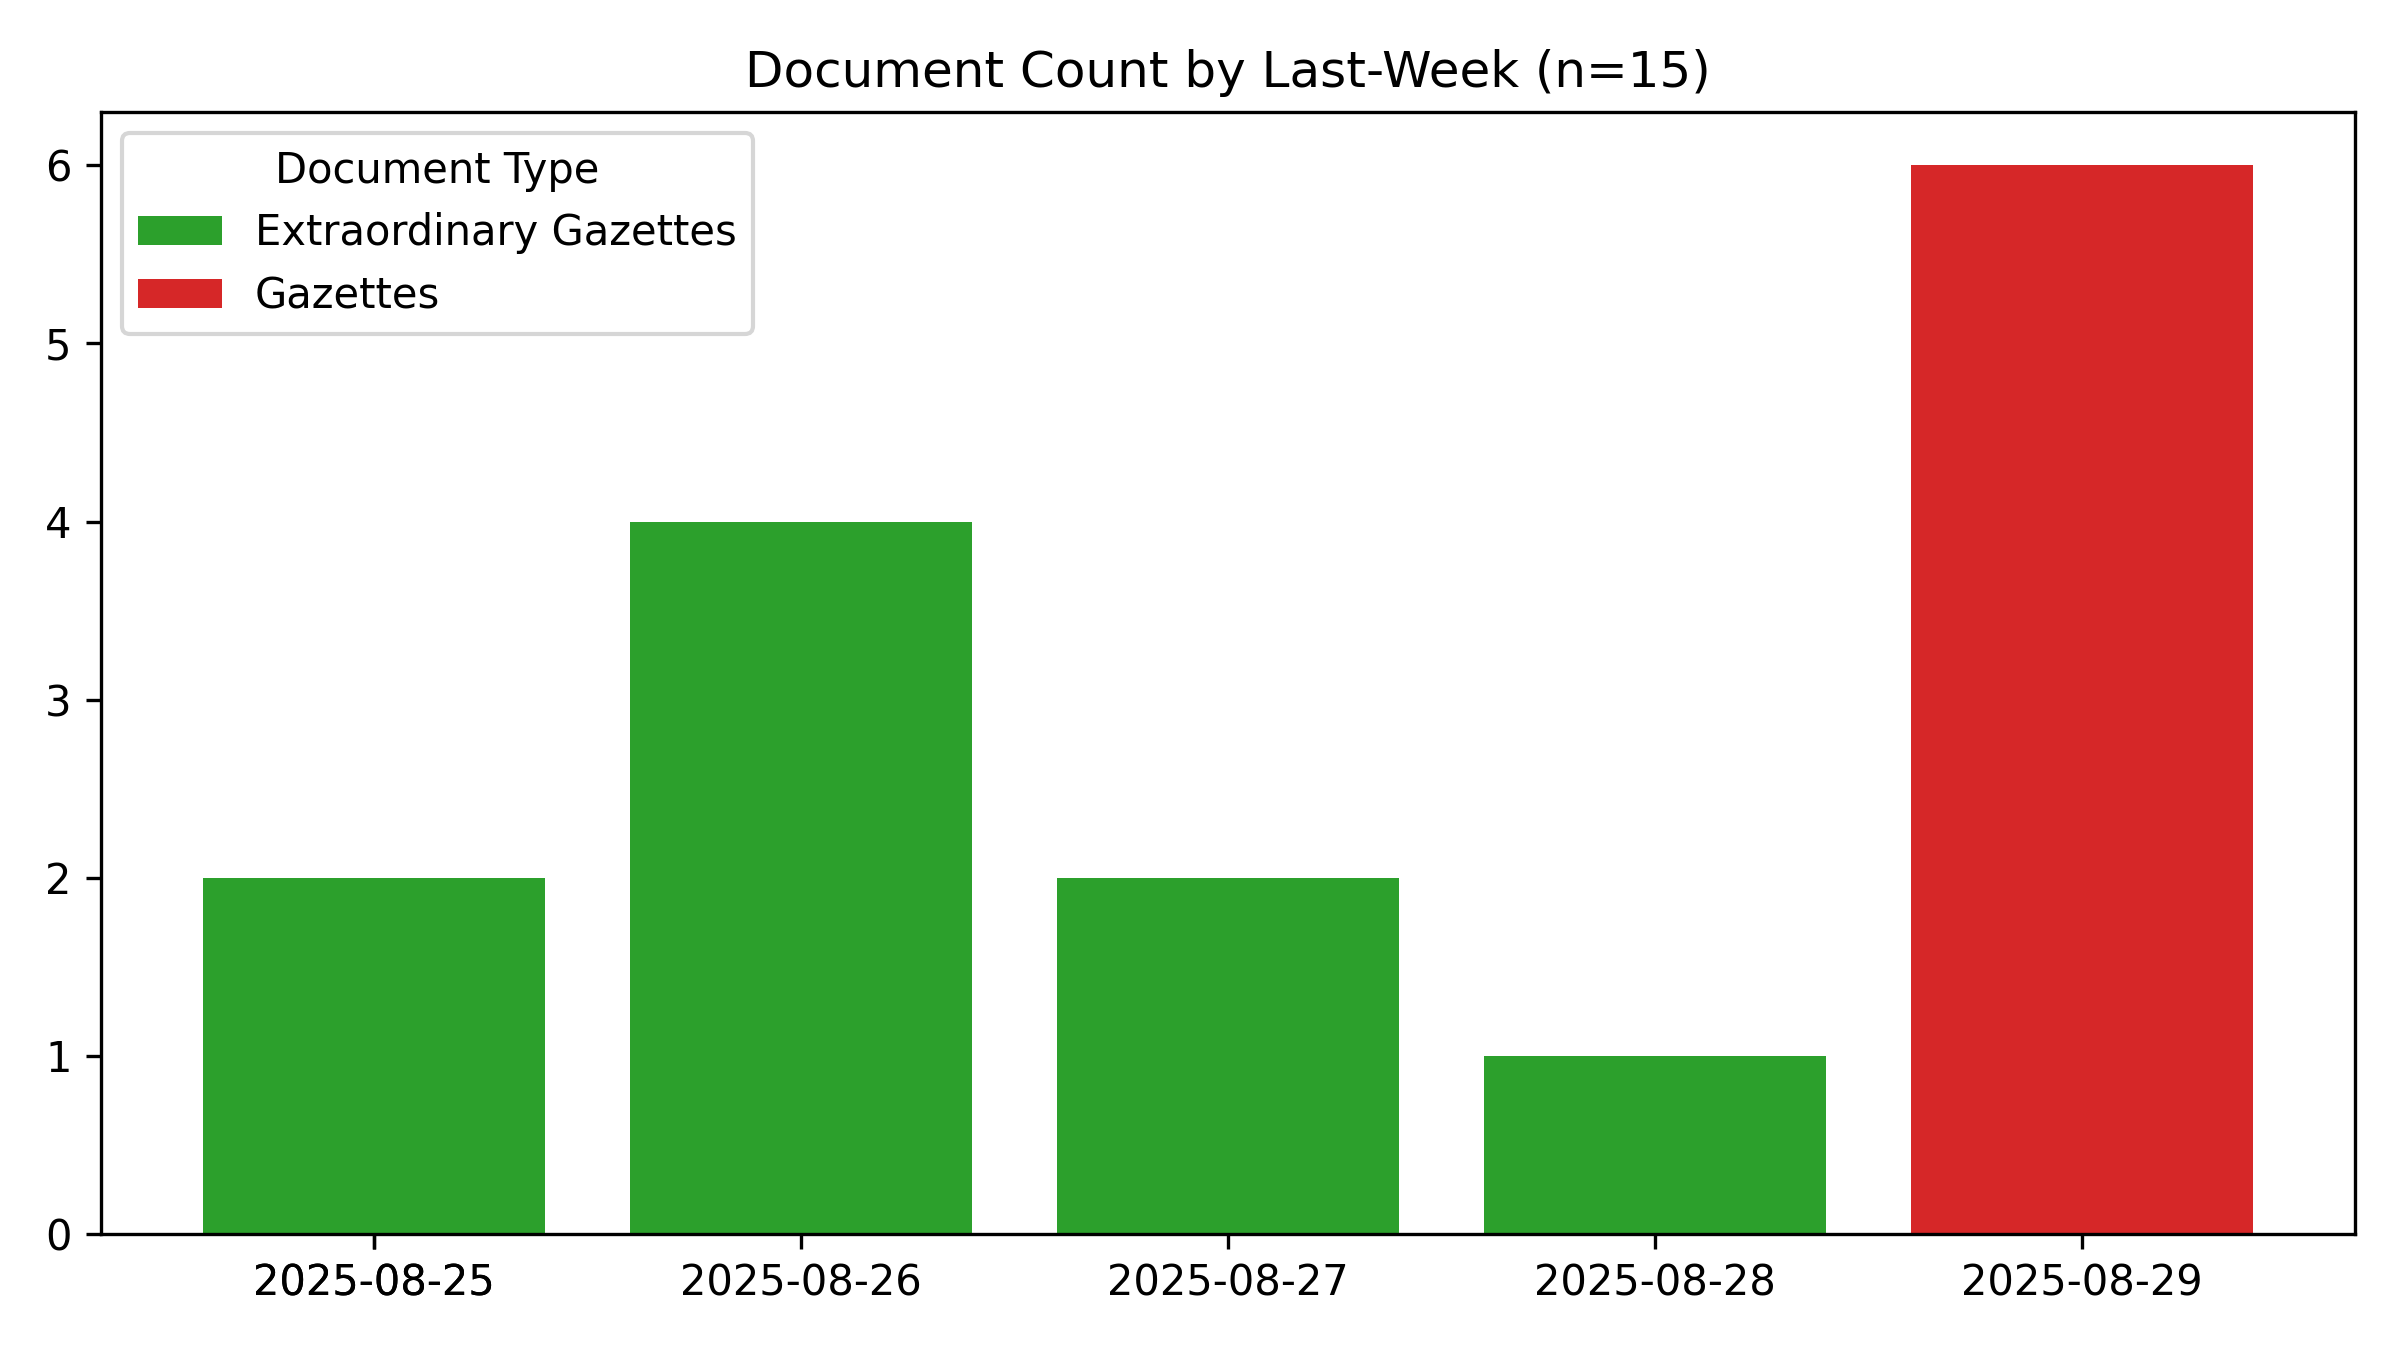
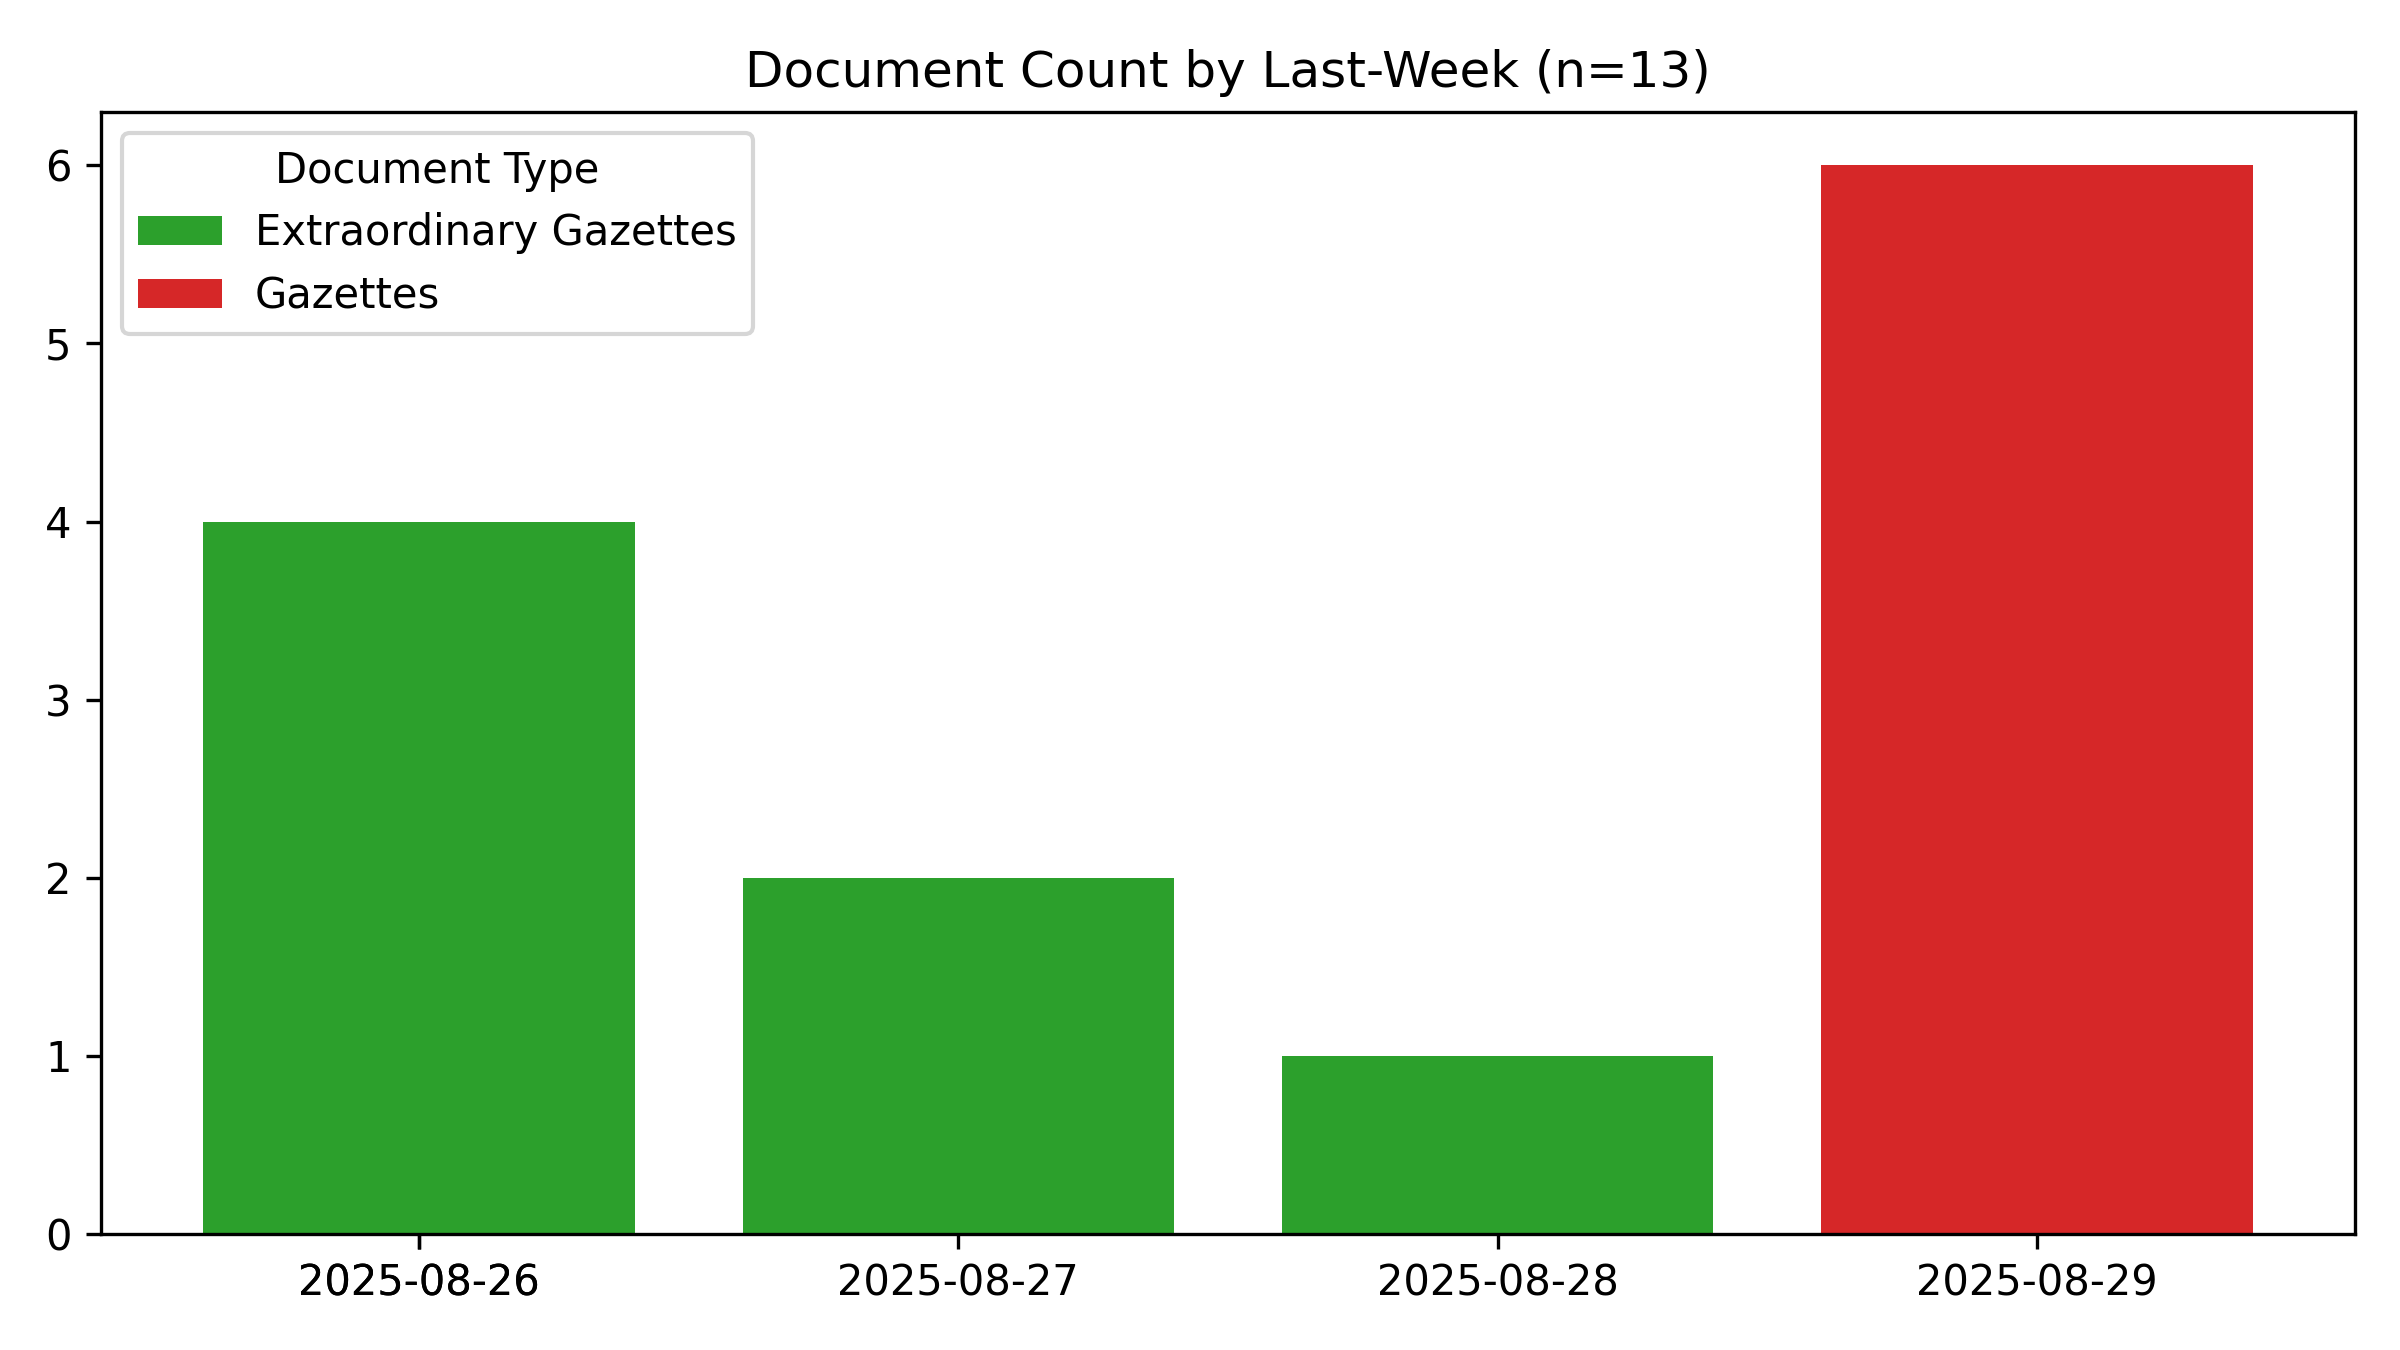
🤖 [build_readme.yml] 2025-09-02-0015

Changed region(s): [[0.0625, 0.1244, 0.9375, 0.9644], [0.0938, 0.9333, 0.2188, 0.9644]]

diff --git a/README.md b/README.md
@@ -1,6 +1,6 @@
 # #SriLanka 🇱🇰 - Legal Documents #Dataset
 
-*Last Updated **2025-09-02 05:12:46**.*
+*Last Updated **2025-09-02 05:45:31**.*
 
 **44,490** documents (24.3 MB), from 1981-01-22 to 2025-08-29.
 
@@ -54,7 +54,7 @@ For best results, use a desktop browser.
 
 ## Recent Documents (Published during the last 7 days)
 
-**15** Documents
+**13** Documents
 
 - 📢 [2025-08-29] [Legal Section](https://github.com/nuuuwan/lk_legal_docs_data/tree/data_2020s/data/gazettes/2025/2025-08-29-legal-section)
 - 📢 [2025-08-29] [IV (B) - Local Government](https://github.com/nuuuwan/lk_legal_docs_data/tree/data_2020s/data/gazettes/2025/2025-08-29-iv-b-local-government)
@@ -69,5 +69,3 @@ For best results, use a desktop browser.
 - 🚨 [2025-08-26] [2451/13](https://github.com/nuuuwan/lk_legal_docs_data/tree/data_2020s/data/extra-gazettes/2025/2451-13)
 - 🚨 [2025-08-26] [Coast Conservation and Coastal Resource Management Department- Environmental Impact Assessment Report Proposed Project on 220 Units of appartments](https://github.com/nuuuwan/lk_legal_docs_data/tree/data_2020s/data/extra-gazettes/2025/2451-12)
 - 🚨 [2025-08-26] [Ministry of Energy - Sri Lanka Electricity Act, no 36 of 2024 Regulation](https://github.com/nuuuwan/lk_legal_docs_data/tree/data_2020s/data/extra-gazettes/2025/2451-11)
-- 🚨 [2025-08-25] [Ministry of Youth Affairs and Sports - Regulations Made by the Minister of Youth Affairs and Sports under Sections 32 & 33 of Sports Law No. 25 of 1973](https://github.com/nuuuwan/lk_legal_docs_data/tree/data_2020s/data/extra-gazettes/2025/2451-09)
-- 🚨 [2025-08-25] [Sri Lanka Customs - Rates of Exchange with effect from 25.08.2025 to 31.08.2025](https://github.com/nuuuwan/lk_legal_docs_data/tree/data_2020s/data/extra-gazettes/2025/2451-01)
